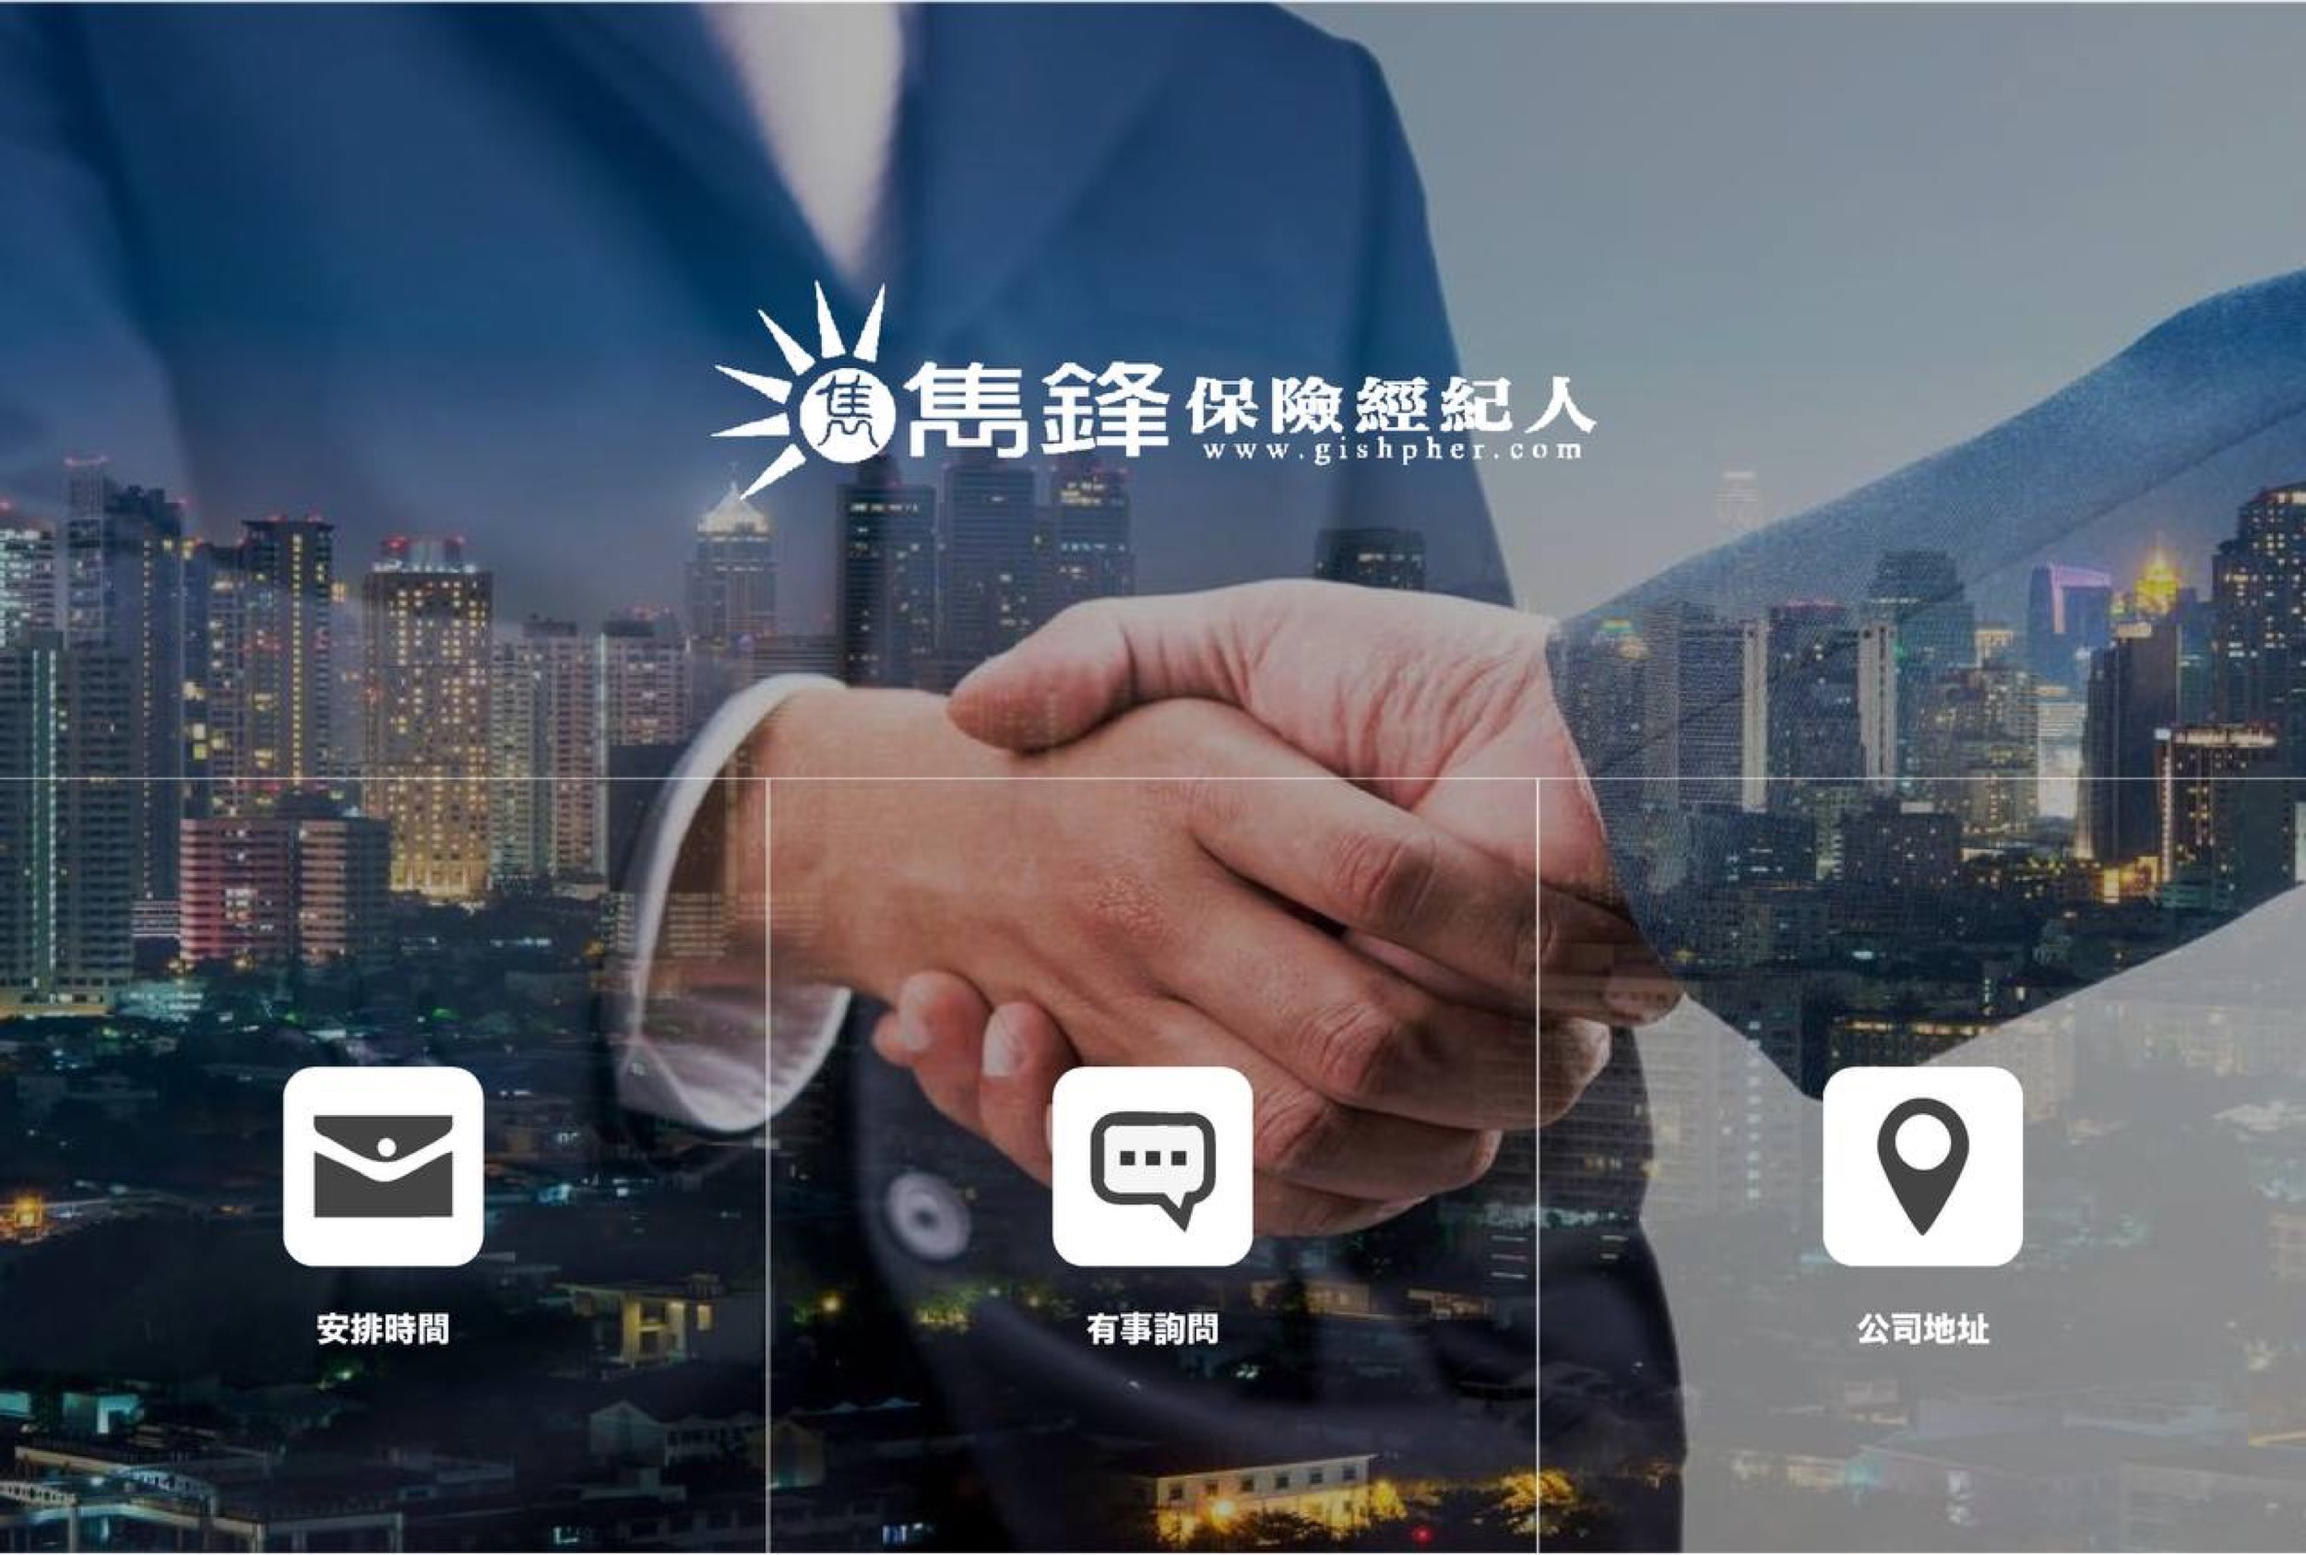
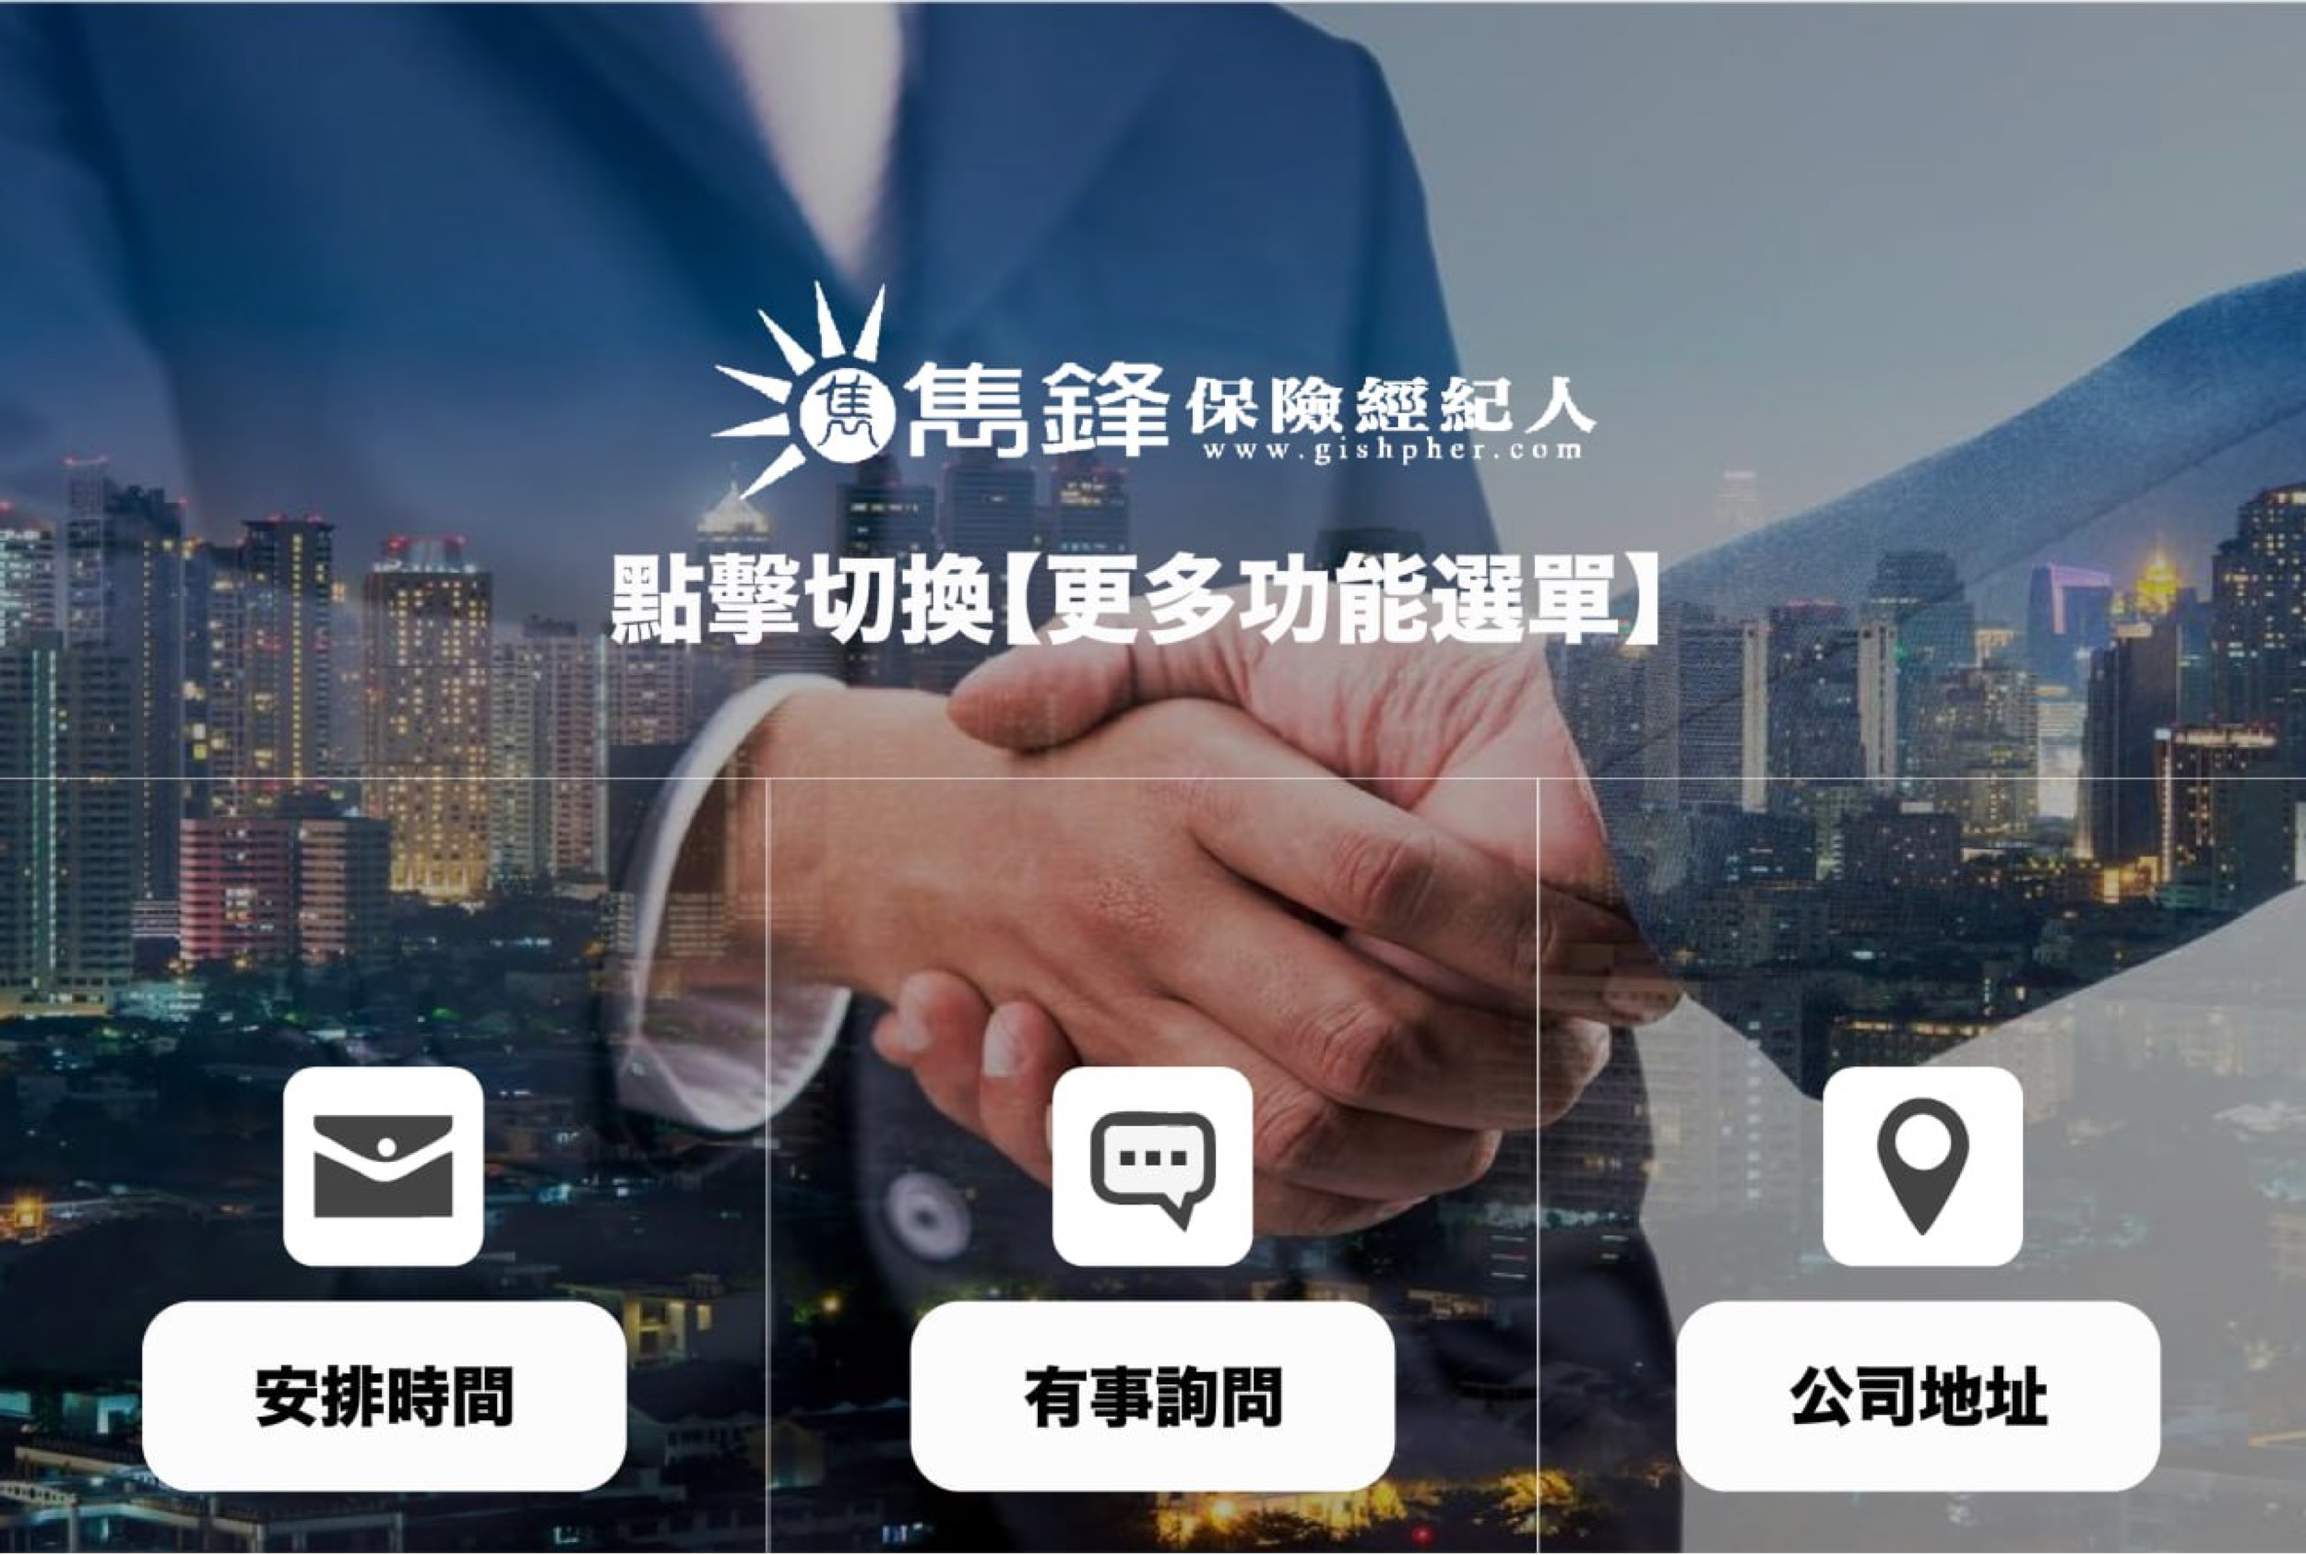
chore: refresh main rich menu background

diff --git a/app.js b/app.js
@@ -15,7 +15,7 @@ const config = {
 
 const app = express();
 const client = new line.Client(config);
-const MAIN_RICH_MENU_ID = process.env.RICH_MENU_MAIN_ID || 'richmenu-44d4ae82fdc802cc3d0b539d6830a899';
+const MAIN_RICH_MENU_ID = process.env.RICH_MENU_MAIN_ID || 'richmenu-5985056e4f891a4ef828c64b0c865ddc';
 const MORE_RICH_MENU_ID = process.env.RICH_MENU_MORE_ID || 'richmenu-9de63e69c52548f1e0c49b1b4728b083';
 const genAI = process.env.GEMINI_API_KEY ? new GoogleGenerativeAI(process.env.GEMINI_API_KEY) : null;
 const GEMINI_MODEL = process.env.GEMINI_MODEL || 'models/gemini-2.5-flash';

diff --git a/status/current_task.md b/status/current_task.md
@@ -1,10 +1,10 @@
 # Current Focus (2026-03-08)
 
-- **Task**: Rich Menu 第二頁（更多功能）測試 + 指令驗證
+- **Task**: Rich Menu 更多功能按鈕測試
 - **Started**: 2026-03-08 17:05 (Asia/Taipei)
 - **Details**:
-  - 第一頁背景已換上新圖並備份。
-  - 第二頁背景（含中文字標籤）已製作完成並套到 `richmenu-37de6...` / `richmenu-9de6...`，同步備份 `more-richmenu.jpg`。
-  - 下一步驗證按鈕行為（基金摘要／焦點新聞／保單健檢／主管輔導／有事聯繫／公司地址）是否都回應正確。
-- **Next checkpoint**: 逐一測試更多功能按鍵並補強 handler，確保顯示文案一致。
-- **Notes**: 每日 09:00 推播維持停用（`digest_disabled.flag`），暫不調整 Cron。
+  - 第一頁背景改為最新滿版圖片（`richmenu-44d4...`）。
+  - 第二頁背景加上中文字，並切換程式預設 `MORE_RICH_MENU_ID → richmenu-9de63...`，確保 postback 切換時會載入新版圖。
+  - 接著要在真機上逐一測試「基金摘要/焦點新聞/保單健檢/主管輔導/有事聯繫/公司地址」對話內容是否正確。
+- **Next checkpoint**: 測完六個指令的回覆狀態並紀錄需調整的地方。
+- **Notes**: 09:00 推播維持停用（`digest_disabled.flag`）。
